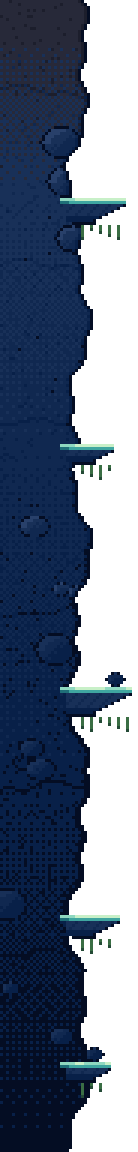
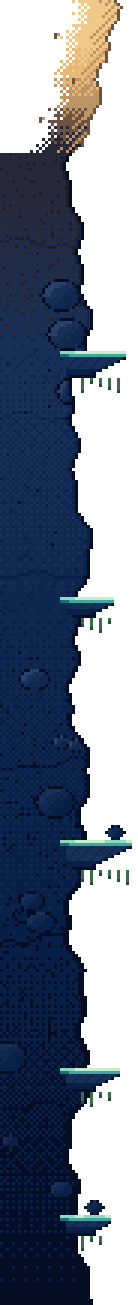
The land's edge is ragged from the sand down, not from under it
The shelf face began at the sand plate's LAST row, so it dressed the seaward end of the land
only from 151 pixels under the walking surface downward. Above that the sand itself was still
cut off with a ruled vertical line -- under water and dark, but ruled, and once the eye found
it at the beach it found it again at the island.

The face now carries 51 logical rows of lip on top, in the sand plate's own colours down to
its earth band, and is pinned at the surface instead. The lip is an EDGE, not a slab: opaque
for fifteen columns behind its own ragged edge and dithered away inland of that, because drawn
to the face's full width it was a second, flatter sand laid over the plate's and the join
where the two met was a straighter line than the one it was there to hide.

diff --git a/tools/build_dagat_props.py b/tools/build_dagat_props.py
@@ -67,6 +67,20 @@ LEDGE = ramp(["#1f6f78", "#3fa6a0", "#8fd8c0", "#c8f0c8"])
 MOSS = ramp(["#244a36", "#3a6e44"])
 SHELF_W, SHELF_H = 160, 384
 FACE_W = 46
+# ⚠ THE LIP: the 151 rows of the SAND PLATE the face used to start below. The face was pinned
+# at the plate's last row, so it dressed the land's seaward edge only from there down -- and
+# the sand above it, from the surface the apo walks on to that row, was still cut off with a
+# ruled vertical line. Under water and dark, but a ruled line, and the first thing anybody
+# noticed about the end of the beach. These rows carry the sand plate's own colours down to
+# its earth band, so the face now begins where the sand does and the whole edge is ragged.
+LIP_H = 51
+## How far behind its own edge the lip is opaque. See draw_shelf_face.
+LIP_DEPTH = 15
+# Read off the sand plate: its lit surface, the shaded body under it, wet sand, and the earth
+# band that the shelf's own first stop already matches.
+SAND = ramp(["#6f5141", "#be9564", "#e6b775", "#f0c888", "#f7dba6"])
+LIP_STOPS = [(0, SAND[3]), (14, SAND[3]), (24, SAND[2]), (34, SAND[1]),
+             (40, SAND[0]), (50, EARTH[1])]
 # (row, colour) stops down the column. The first matches the sand plate's last row exactly,
 # which is the only place the two pictures touch.
 SHELF_STOPS = [(0, EARTH[1]), (12, EARTH[1]), (64, ROCK[3]), (150, ROCK[2]),
@@ -167,30 +181,65 @@ def draw_shelf_face() -> Canvas:
 
     A ragged edge with a few ledges jutting out of it, each lit on its top the way the
     painted terraces are -- teal going to near-white -- with weed hanging off the lip and the
-    underside cut back, so it reads as a shelf a thing could rest on rather than a notch."""
+    underside cut back, so it reads as a shelf a thing could rest on rather than a notch.
+
+    ⚠ IT BEGINS AT THE SAND, NOT UNDER IT. The top LIP_H rows are the sand plate's own band,
+    so the land's edge is ragged from the surface the apo stands on all the way down, instead
+    of a ruled cut through the sand with a ragged rock starting under it."""
     import math
     pixelart.PX = 3
-    c = Canvas(FACE_W, SHELF_H, seed=2207)
-    _shelf_body(c, FACE_W, 2207, False)
+    c = Canvas(FACE_W, LIP_H + SHELF_H, seed=2207)
+    body = Canvas(FACE_W, SHELF_H, seed=2207)
+    _shelf_body(body, FACE_W, 2207, False)
+    c.buf[LIP_H:] = body.buf
+    for y in range(LIP_H):
+        for (ya, lo), (yb, hi) in zip(LIP_STOPS, LIP_STOPS[1:]):
+            if ya <= y <= yb:
+                amount = 0.0 if yb == ya else (y - ya) / float(yb - ya)
+                c.dither(0, y, FACE_W, 1, lo, hi, amount)
+                break
     base = FACE_W - 20
     edge = []
-    for y in range(SHELF_H):
+    for y in range(LIP_H + SHELF_H):
         e = base + int(round(2.6 * math.sin(y / 13.0) + 1.6 * math.sin(y / 5.7 + 1.0)
                              + 1.0 * math.sin(y / 2.3)))
+        if y < LIP_H:
+            # Sand runs further out than rock does and draws back as it wets: the lip is a
+            # slope into the water, not a wall, so nothing here reads as a second cliff.
+            e += int(round((1.0 - y / float(LIP_H)) * 11.0))
         for top, thick, out in LEDGES:
-            if top <= y < top + thick:
+            if top + LIP_H <= y < top + LIP_H + thick:
                 # Full reach for the top rows, cut back underneath.
-                cut = max(0, (y - top) - 2) * out // max(1, thick)
+                cut = max(0, (y - top - LIP_H) - 2) * out // max(1, thick)
                 e = max(e, base + out - cut - 1)
         edge.append(min(FACE_W - 1, e))
-    for y in range(SHELF_H):
+    for y in range(LIP_H + SHELF_H):
         c.buf[y, edge[y] + 1:] = 0
         # A right-hand face is on the shadow side: its edge carries the step down.
-        c.px(edge[y], y, ROCK[0])
+        c.px(edge[y], y, ROCK[0] if y >= LIP_H else SAND[0])
         c.px(edge[y] - 1, y, _step(c.buf[y, edge[y] - 1].copy(), -1))
+    # ⚠ THE LIP IS AN EDGE, NOT A SLAB. Opaque for LIP_DEPTH columns behind the edge and
+    # dithered away inland of that: drawn to the full width it was a second, flatter sand
+    # laid over the plate's, and the join where the two met was a straighter line than the
+    # one it was put there to hide. The plate's own sand carries on behind this.
+    for y in range(LIP_H):
+        left = edge[y] - LIP_DEPTH
+        c.buf[y, :max(0, left)] = 0
+        for x in range(max(0, left), min(FACE_W, left + 6)):
+            if BAYER_AT(x, y) > (x - left) / 6.0:
+                c.buf[y, x] = 0
+        # Wet sand darkening toward the water.
+        for x in range(max(0, edge[y] - 5), edge[y]):
+            if (x + y) % 3 == 0:
+                c.px(x, y, SAND[1])
+    for cy, cx in ((11, base - 8), (26, base - 2), (39, base - 13), (45, base - 5)):
+        c.px(cx, cy, SAND[0])
+        c.px(cx + 1, cy, SAND[1])
+        c.px(cx, cy + 1, SAND[0])
     # The slab of each ledge, a step lighter than the wall behind it so it reads as rock
     # standing out of the face rather than a line drawn on it, outlined underneath.
-    for top, thick, out in LEDGES:
+    for top_row, thick, out in LEDGES:
+        top = top_row + LIP_H
         for y in range(top, top + thick):
             for x in range(base - 4, edge[y] + 1):
                 slab = ROCK[3] if (x + y) % 4 else ROCK[2]
@@ -200,20 +249,21 @@ def draw_shelf_face() -> Canvas:
             c.px(edge[y], y, ROCK[0])
         for x in range(base - 2, edge[top + thick - 1] + 1):
             c.px(x, top + thick, ROCK[0])
-    for top, thick, out in LEDGES:
+    for top_row, thick, out in LEDGES:
+        top = top_row + LIP_H
         lip = edge[top]
         x0 = base - 6
         for x in range(x0, lip + 1):
             c.px(x, top, LEDGE[3] if x > x0 + 4 else LEDGE[2])
             c.px(x, top + 1, LEDGE[1] if x > x0 + 2 else LEDGE[0])
         # A boulder sitting on the ledge, half the time.
-        if (top // 7) % 2 == 0:
+        if (top_row // 7) % 2 == 0:
             _boulder(c, lip - 5, top - 3, 3)
             for x in range(lip - 8, lip - 1):
                 c.px(x, top, LEDGE[2])
         # Weed hanging off the lip.
         for x in range(base + 1, lip, 3):
-            length = 2 + (x * 7 + top) % 4
+            length = 2 + (x * 7 + top_row) % 4
             for dy in range(length):
                 c.px(x, top + thick + 1 + dy, MOSS[1] if dy < length - 1 else MOSS[0])
     return c
